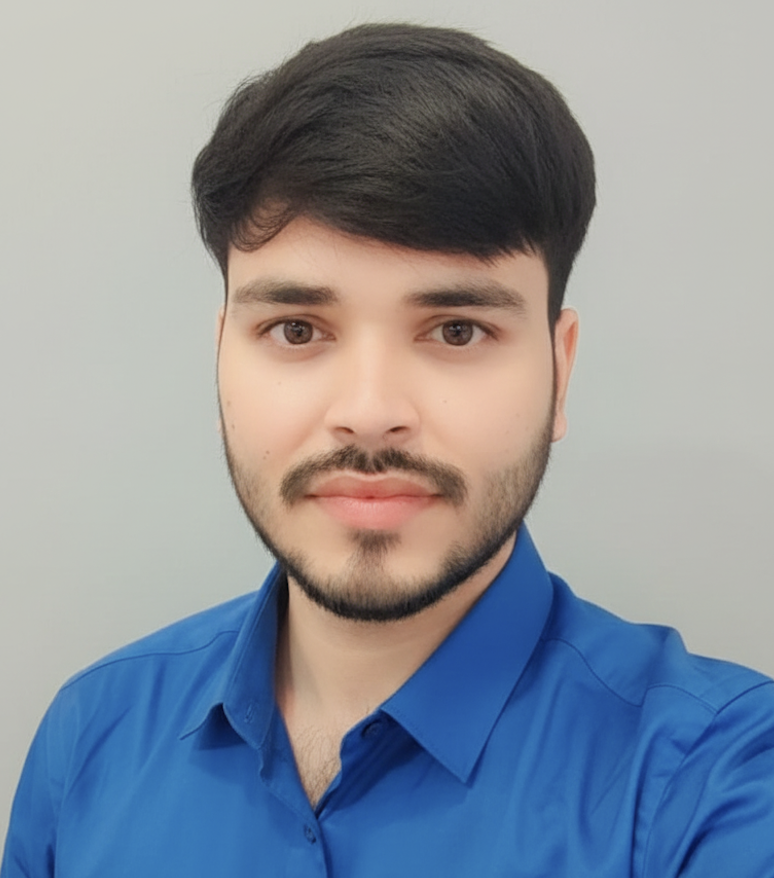
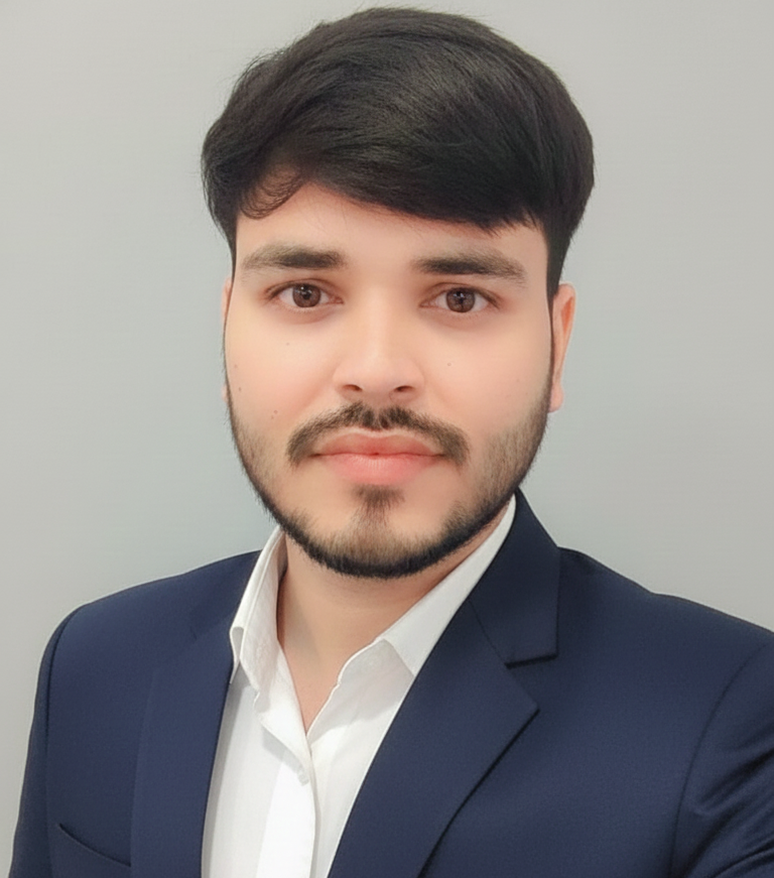
Swap about portrait without resizing

diff --git a/index.html b/index.html
@@ -139,7 +139,7 @@
             <h2 class="section_title">About Me</h2>
             <span class="section_subtitle">My Introduction</span>
             <div class="about_container container grid">
-                <img src="assets/img/myPhoto.png?v=20260624-3" alt="Portrait of Ankit Khandelwal" class="about_img">
+                <img src="assets/img/about.png?v=20260624-4" alt="Portrait of Ankit Khandelwal" class="about_img">
                 <div class="about_data">
                     <p class="about_description">
                         Mobile app developer focused on building simple, smooth, and reliable experiences that feel